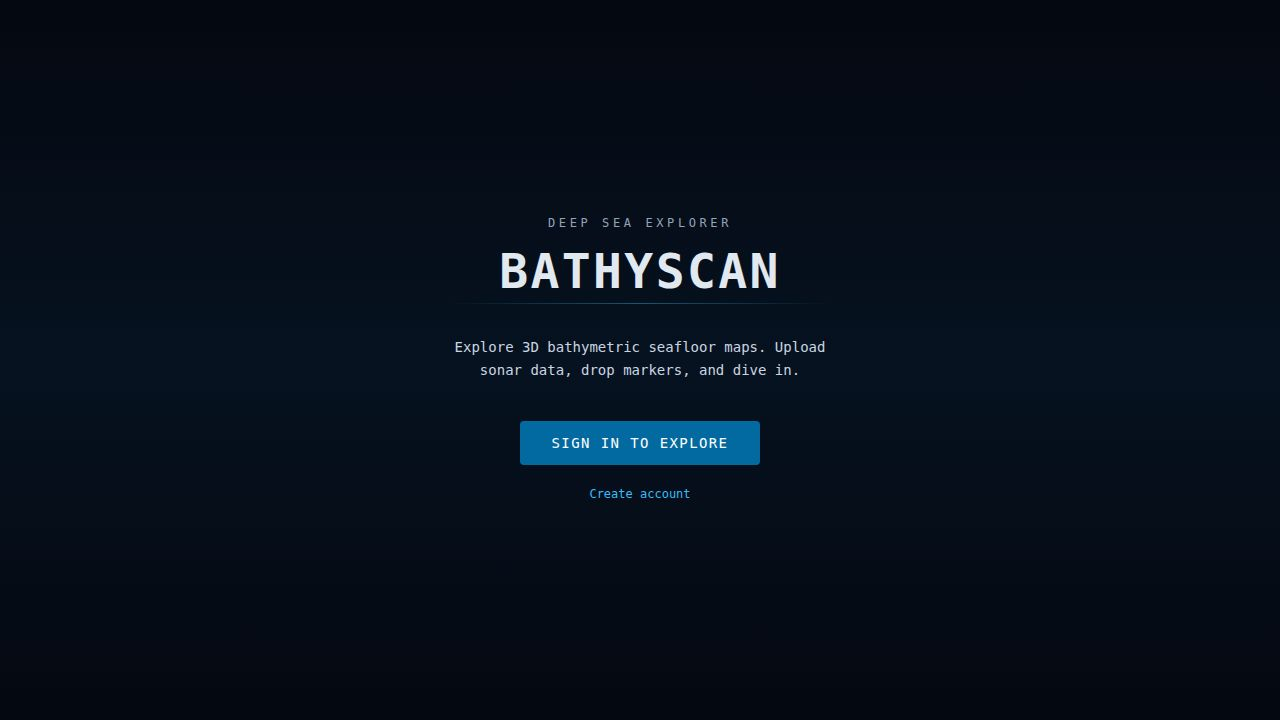
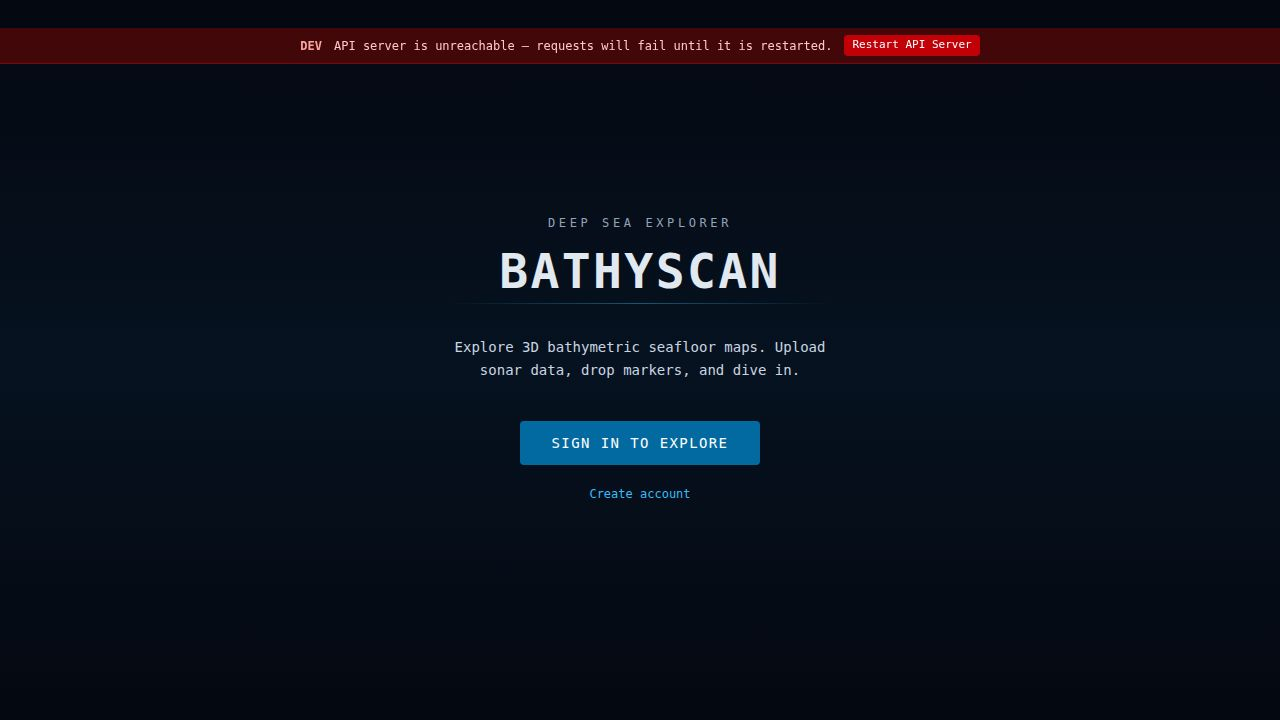
feat: Panel modes — Explore and Analyze mode polish (task-2068)
## Explore mode
- Renamed "Map & Data" section title → "Your Data" for clearer context
- Added empty state in the Your Data section when no dataset is loaded:
  shows a 🌊 icon, "Load a dataset to begin." copy, and a "BROWSE DATASETS →"
  button that opens the Find Data drawer
- Added "Switch to Plan to configure conditions" nudge button at the bottom of
  Explore mode (data-testid="switch-to-plan-nudge") — appears when tideOverlayActive,
  currentOverlayActive, or driftPlannerActive is true; clicking it switches the
  sidebar mode to 'plan' directly
- Added reads for tideOverlayActive, currentOverlayActive, and setSidebarMode from
  uiStore in App.tsx to power the nudge

## Analyze mode
- Added full-mode empty state (data-testid="analyze-empty-state") when no dataset
  is loaded — shows a ◈ icon, "Load a dataset to begin analysis." copy, and a
  "GO TO EXPLORE →" button that switches mode to explore and opens Find Data
- When terrain is loaded, panels now render inside a conditional block to avoid
  mounting HabitatPanel/SeafloorClassificationPanel without a terrain context
- Renamed section title "Habitat" → "Species Habitat" for clarity
- Renamed section title "Seafloor Classification" → "Seafloor" (shorter, less jargon)
- Renamed QueryPanel trigger button label "Query Panel" → "Ask AI" with updated
  tooltip; added data-testid="ask-ai-trigger"

## SeafloorClassificationPanel
- Added a VIEW | PAINT sub-mode indicator row at the top of the panel content
[…]

Changed region(s): [[0.0, 0.0306, 1.0, 0.0917]]

diff --git a/artifacts/bathyscan/src/App.tsx b/artifacts/bathyscan/src/App.tsx
@@ -331,6 +331,9 @@ function Main() {
   const sidePaneCollapsed = useUiStore((s) => s.sidePaneCollapsed);
   const setSidePaneCollapsed = useUiStore((s) => s.setSidePaneCollapsed);
   const sidebarMode = useUiStore((s) => s.sidebarMode);
+  const tideOverlayActive = useUiStore((s) => s.tideOverlayActive);
+  const currentOverlayActive = useUiStore((s) => s.currentOverlayActive);
+  const setSidebarMode = useUiStore((s) => s.setSidebarMode);
   const hasSeenOrbitTouchHint = useUiStore((s) => s.hasSeenOrbitTouchHint);
   const setHasSeenOrbitTouchHint = useUiStore((s) => s.setHasSeenOrbitTouchHint);
   const prevOverviewOpenRef = useRef(false);
@@ -1140,10 +1143,80 @@ function Main() {
               <OverlaysToolsPanel />
 
               <SidebarSectionGroup>
-                <SidebarSection id="mapData" title="Map & Data">
-                  {showDatasetPanel ? <DatasetPanel embedded /> : null}
+                <SidebarSection id="mapData" title="Your Data">
+                  {!terrain ? (
+                    <div
+                      data-testid="explore-empty-state"
+                      style={{
+                        padding: "14px 12px",
+                        textAlign: "center",
+                        color: "#475569",
+                        fontFamily: "'JetBrains Mono', monospace",
+                        fontSize: 10,
+                        letterSpacing: "0.1em",
+                        lineHeight: 1.6,
+                      }}
+                    >
+                      <div style={{ fontSize: 20, marginBottom: 6, opacity: 0.5 }}>🌊</div>
+                      <div style={{ color: "#64748b", marginBottom: 8 }}>
+                        Load a dataset to begin.
+                      </div>
+                      <button
+                        onClick={() => useUiStore.getState().setFindDataPanelOpen(true)}
+                        style={{
+                          fontSize: 9,
+                          letterSpacing: "0.12em",
+                          padding: "4px 10px",
+                          background: "rgba(0,229,255,0.06)",
+                          border: "1px solid rgba(0,229,255,0.28)",
+                          borderRadius: 3,
+                          color: "#00e5ff",
+                          cursor: "pointer",
+                          fontFamily: "'JetBrains Mono', monospace",
+                        }}
+                      >
+                        BROWSE DATASETS →
+                      </button>
+                    </div>
+                  ) : showDatasetPanel ? <DatasetPanel embedded /> : null}
                 </SidebarSection>
               </SidebarSectionGroup>
+
+              {/* "Switch to Plan" nudge — appears when a conditions or drift overlay is active */}
+              {(tideOverlayActive || currentOverlayActive || driftPlannerActive) && (
+                <button
+                  data-testid="switch-to-plan-nudge"
+                  onClick={() => setSidebarMode('plan')}
+                  style={{
+                    width: "100%",
+                    minWidth: 230,
+                    maxWidth: 260,
+                    padding: "7px 12px",
+                    background: "rgba(2,8,18,0.88)",
+                    border: "1px solid rgba(52,211,153,0.25)",
+                    borderRadius: 6,
+                    color: "#34d399",
+                    fontFamily: "'JetBrains Mono', monospace",
+                    fontSize: 9,
+                    letterSpacing: "0.15em",
+                    textTransform: "uppercase",
+                    cursor: "pointer",
+                    backdropFilter: "blur(6px)",
+                    textAlign: "left",
+                    display: "flex",
+                    alignItems: "center",
+                    gap: 8,
+                    opacity: 0.85,
+                    transition: "opacity 0.15s",
+                    pointerEvents: "auto",
+                  }}
+                  onMouseEnter={e => (e.currentTarget.style.opacity = "1")}
+                  onMouseLeave={e => (e.currentTarget.style.opacity = "0.85")}
+                >
+                  <span style={{ fontSize: 12 }}>⇄</span>
+                  Switch to Plan to configure conditions
+                </button>
+              )}
             </div>
 
             {/* ══════════════════════════════════════════════════
@@ -1187,21 +1260,64 @@ function Main() {
                 QueryPanel trigger
             ══════════════════════════════════════════════════ */}
             <div style={{ display: sidebarMode === 'analyze' ? 'flex' : 'none', flexDirection: 'column', gap: 8 }}>
-              <SidebarSectionGroup>
-                <SidebarSection id="habitat" title="Habitat">
-                  {showHabitatPanel ? <HabitatPanel embedded /> : null}
-                </SidebarSection>
-              </SidebarSectionGroup>
+              {!terrain ? (
+                <div
+                  data-testid="analyze-empty-state"
+                  style={{
+                    padding: "14px 12px",
+                    textAlign: "center",
+                    color: "#475569",
+                    fontFamily: "'JetBrains Mono', monospace",
+                    fontSize: 10,
+                    letterSpacing: "0.1em",
+                    lineHeight: 1.6,
+                    background: "rgba(2,8,18,0.94)",
+                    border: "1px solid rgba(0,229,255,0.22)",
+                    borderRadius: 6,
+                    backdropFilter: "blur(6px)",
+                  }}
+                >
+                  <div style={{ fontSize: 20, marginBottom: 6, opacity: 0.5 }}>◈</div>
+                  <div style={{ color: "#64748b", marginBottom: 8 }}>
+                    Load a dataset to begin analysis.
+                  </div>
+                  <button
+                    onClick={() => { setSidebarMode('explore'); useUiStore.getState().setFindDataPanelOpen(true); }}
+                    style={{
+                      fontSize: 9,
+                      letterSpacing: "0.12em",
+                      padding: "4px 10px",
+                      background: "rgba(0,229,255,0.06)",
+                      border: "1px solid rgba(0,229,255,0.28)",
+                      borderRadius: 3,
+                      color: "#00e5ff",
+                      cursor: "pointer",
+                      fontFamily: "'JetBrains Mono', monospace",
+                    }}
+                  >
+                    GO TO EXPLORE →
+                  </button>
+                </div>
+              ) : (
+                <>
+                  <SidebarSectionGroup>
+                    <SidebarSection id="habitat" title="Species Habitat">
+                      {showHabitatPanel ? <HabitatPanel embedded /> : null}
+                    </SidebarSection>
+                  </SidebarSectionGroup>
 
-              <SidebarSectionGroup>
-                <SidebarSection id="seafloorClassification" title="Seafloor Classification">
-                  <SeafloorClassificationPanel />
-                </SidebarSection>
-              </SidebarSectionGroup>
+                  <SidebarSectionGroup>
+                    <SidebarSection id="seafloorClassification" title="Seafloor">
+                      <SeafloorClassificationPanel />
+                    </SidebarSection>
+                  </SidebarSectionGroup>
+                </>
+              )}
 
               {showQueryPanel && (
-                <ViewscreenTooltip label='Open natural-language query panel (press "/")' side="right">
+                <ViewscreenTooltip label='Open AI query panel (press "/")' side="right">
                   <button
+                    data-testid="ask-ai-trigger"
                     onClick={() => setQueryOpen(true)}
                     style={{
                       width: "100%",
@@ -1222,7 +1338,7 @@ function Main() {
                     }}
                   >
                     <span style={{ color: "#00e5ff", marginRight: 8 }}>⌕</span>
-                    Query Panel
+                    Ask AI
                     <span style={{ float: "right", fontSize: 9, letterSpacing: "0.1em", color: "#475569" }}>
                       press /
                     </span>

diff --git a/artifacts/bathyscan/src/components/SeafloorClassificationPanel.tsx b/artifacts/bathyscan/src/components/SeafloorClassificationPanel.tsx
@@ -28,11 +28,68 @@ export const SeafloorClassificationPanel: React.FC = () => {
   const substrateEnabled = useUiStore((s) => s.substrateColorMode);
   const setSubstrateEnabled = useUiStore((s) => s.setSubstrateColorMode);
   const zoneOverlayEnabled = useUiStore((s) => s.zoneOverlayEnabled);
+  const zonePaintMode = useUiStore((s) => s.zonePaintMode);
 
   const bothActive = substrateEnabled && zoneOverlayEnabled;
+  const activePaintMode = zonePaintMode && zoneOverlayEnabled;
 
   return (
     <div style={{ fontFamily: MONO, fontSize: 12 }}>
+      {/* ── Sub-mode indicator row ── */}
+      <div
+        style={{
+          display: "flex",
+          alignItems: "center",
+          gap: 6,
+          padding: "6px 12px 4px",
+          borderBottom: "1px dashed rgba(0,229,255,0.08)",
+        }}
+      >
+        <span
+          style={{
+            fontSize: 9,
+            letterSpacing: "0.15em",
+            textTransform: "uppercase",
+            color: !activePaintMode ? "#00e5ff" : "#475569",
+            fontWeight: !activePaintMode ? 700 : 400,
+            textShadow: !activePaintMode ? "0 0 6px rgba(0,229,255,0.4)" : "none",
+            transition: "color 0.15s",
+          }}
+        >
+          VIEW
+        </span>
+        <span style={{ fontSize: 9, color: "#334155", letterSpacing: "0.1em" }}>|</span>
+        <span
+          style={{
+            fontSize: 9,
+            letterSpacing: "0.15em",
+            textTransform: "uppercase",
+            color: activePaintMode ? "#fb923c" : "#475569",
+            fontWeight: activePaintMode ? 700 : 400,
+            textShadow: activePaintMode ? "0 0 6px rgba(251,146,60,0.5)" : "none",
+            transition: "color 0.15s",
+          }}
+        >
+          PAINT
+        </span>
+        {activePaintMode && (
+          <span
+            style={{
+              marginLeft: "auto",
+              fontSize: 8,
+              letterSpacing: "0.12em",
+              color: "#fb923c",
+              background: "rgba(251,146,60,0.1)",
+              border: "1px solid rgba(251,146,60,0.3)",
+              borderRadius: 3,
+              padding: "1px 5px",
+            }}
+          >
+            ACTIVE
+          </span>
+        )}
+      </div>
+
       {/* ── Substrate toggle ── */}
       <div style={{ padding: "8px 12px", borderBottom: "1px dashed rgba(0,229,255,0.10)" }}>
         <div

diff --git a/artifacts/bathyscan/src/components/HabitatPanel.tsx b/artifacts/bathyscan/src/components/HabitatPanel.tsx
@@ -771,8 +771,8 @@ export const HabitatPanel: React.FC<HabitatPanelProps> = ({ embedded = false }) 
           })()}
 
           {!activeSpecies && (
-            <div style={{ fontSize: 11, color: "#e2e8f0", letterSpacing: "0.05em" }}>
-              Select a species to score habitat
+            <div style={{ fontSize: 11, color: "#64748b", letterSpacing: "0.05em" }}>
+              Select a species to see habitat scores.
             </div>
           )}
 